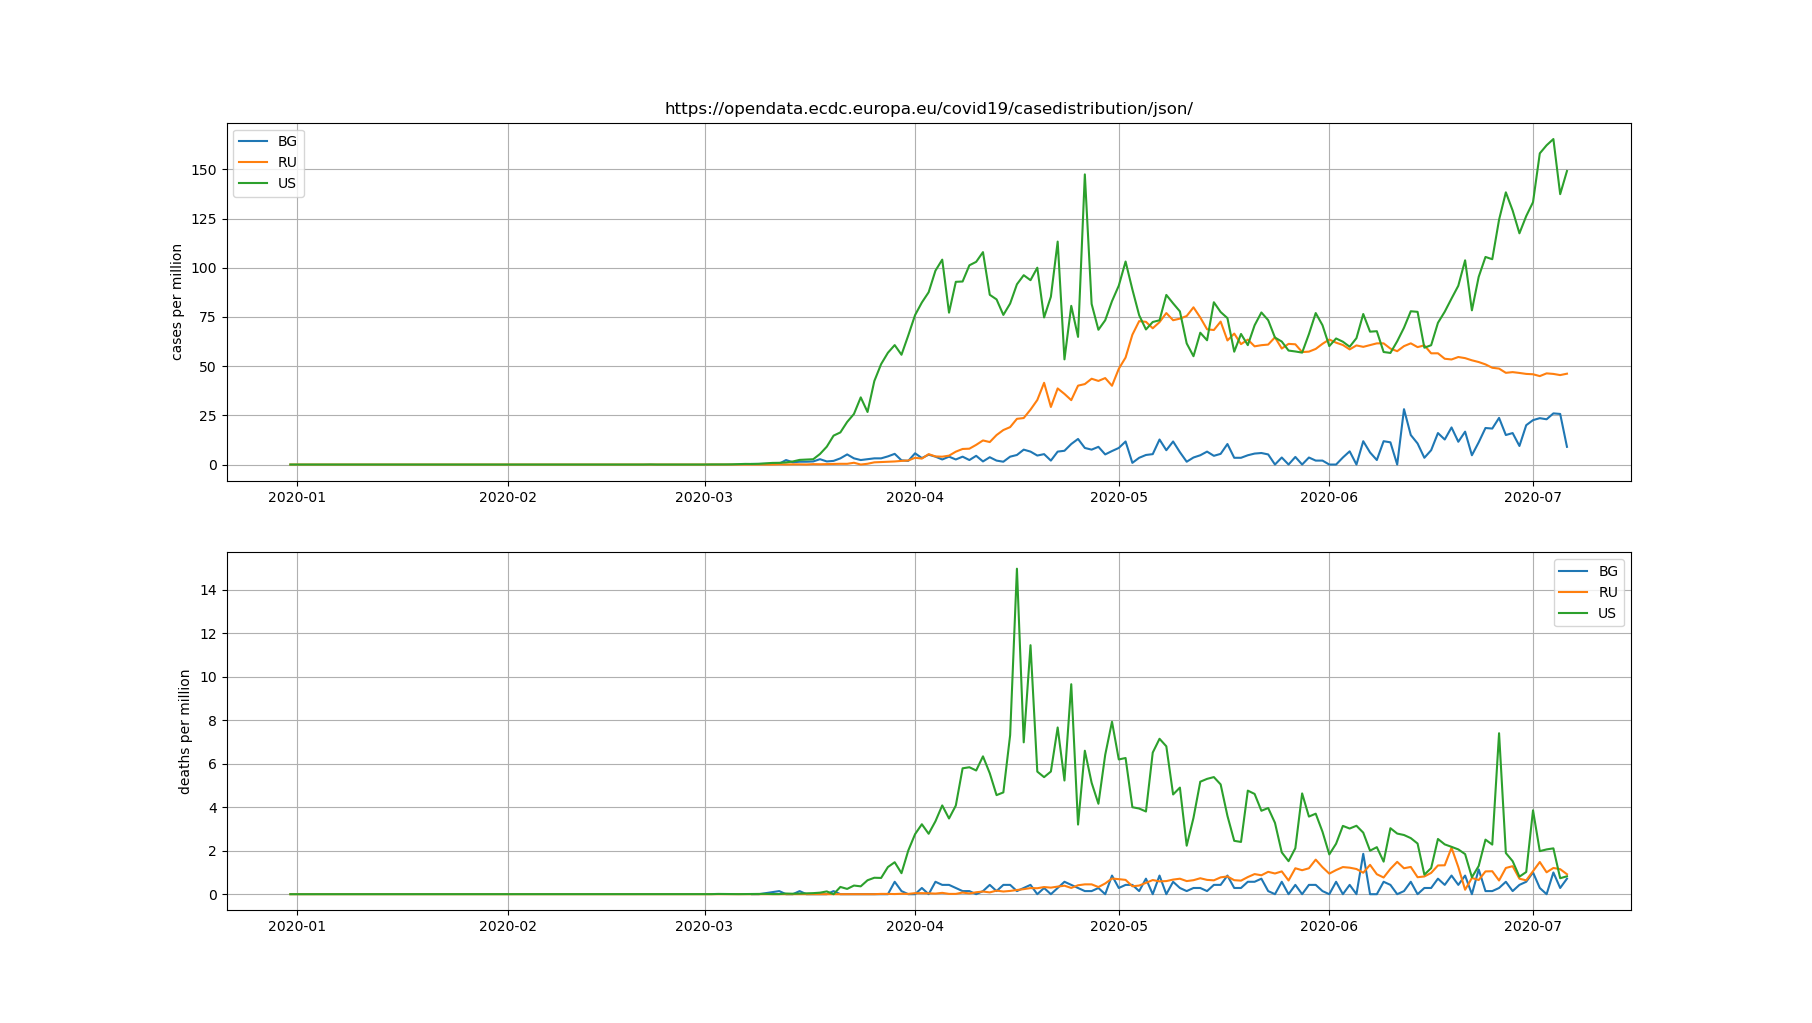
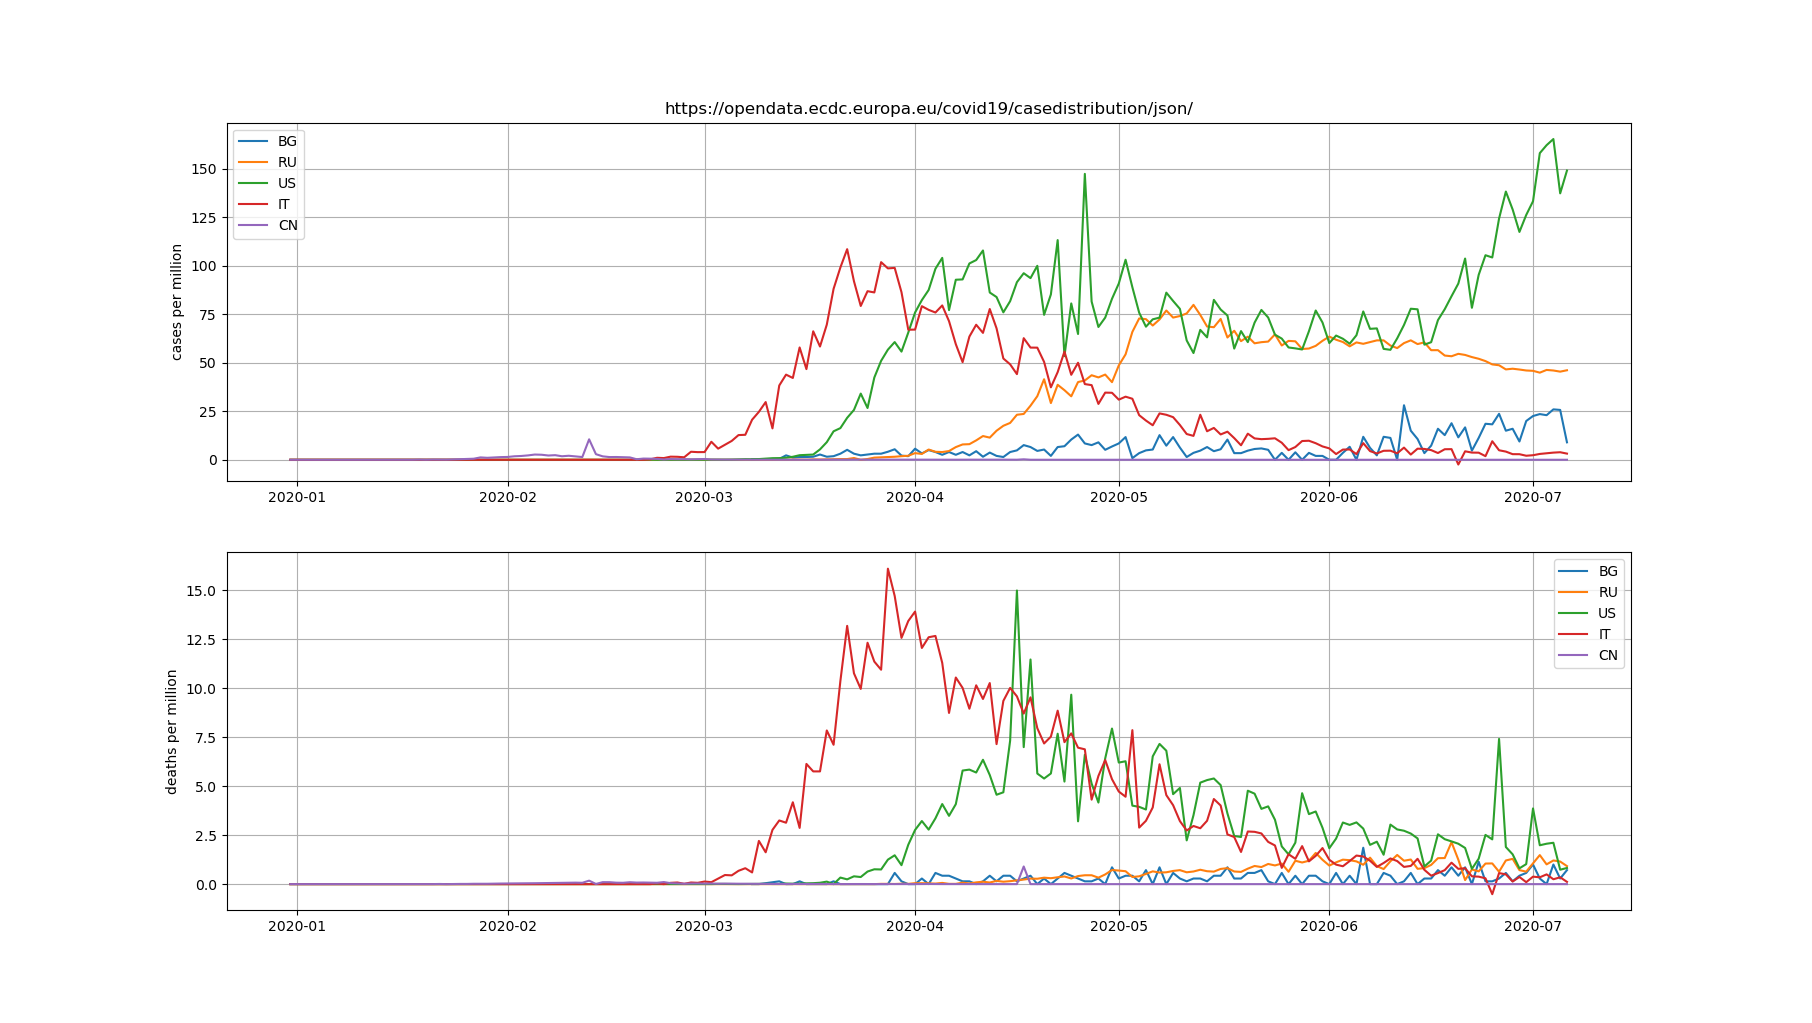
numbers representation more countries

diff --git a/src/c19plot.py b/src/c19plot.py
@@ -19,7 +19,7 @@ url = r"https://opendata.ecdc.europa.eu/covid19/casedistribution/json/"
 response = request.urlopen(url)
 data = json.loads(response.read())['records']
 
-for i, country in enumerate(['BG','RU', 'US']):#'IT', 'FR', 'US', 'CN']):
+for i, country in enumerate(['BG','RU', 'US', 'IT', 'CN']):
     country_data = list(filter(lambda x: x['geoId'] == country, data))
     result = list(map(lambda x: (datetime.date(*list(reversed(list( \
         map(int, x['dateRep'].split("/")))))), int(x['cases']), \
@@ -27,14 +27,14 @@ for i, country in enumerate(['BG','RU', 'US']):#'IT', 'FR', 'US', 'CN']):
 
     dateRep = np.flip(np.array(list(map(lambda x: x[0].strftime("%Y-%m-%d"), \
         result)), dtype='datetime64[D]'))
-    cases = np.flip(np.array(list(map(lambda x: x[1], result)), dtype='i'))
-    deaths = np.flip(np.array(list(map(lambda x: x[2], result)), dtype='i'))
-    popd = np.flip(np.array(list(map(lambda x: x[3], result)), dtype='i'))
+    cases = np.flip(np.array(list(map(lambda x: x[1], result)), dtype='d'))
+    deaths = np.flip(np.array(list(map(lambda x: x[2], result)), dtype='d'))
+    popd = np.flip(np.array(list(map(lambda x: x[3], result)), dtype='d'))
 
     plt.subplot(2, 1, 1)
-    plt.plot(dateRep, cases/popd * 1e6, label = country)
+    plt.plot(dateRep, cases/popd * 1.0e+6, label = country)
     plt.subplot(2, 1, 2)
-    plt.plot(dateRep, deaths/popd * 1e6, label = country)
+    plt.plot(dateRep, deaths/popd * 1.0e+6, label = country)
 
 plt.subplot(2, 1, 1)
 plt.title(r"https://opendata.ecdc.europa.eu/covid19/casedistribution/json/")
